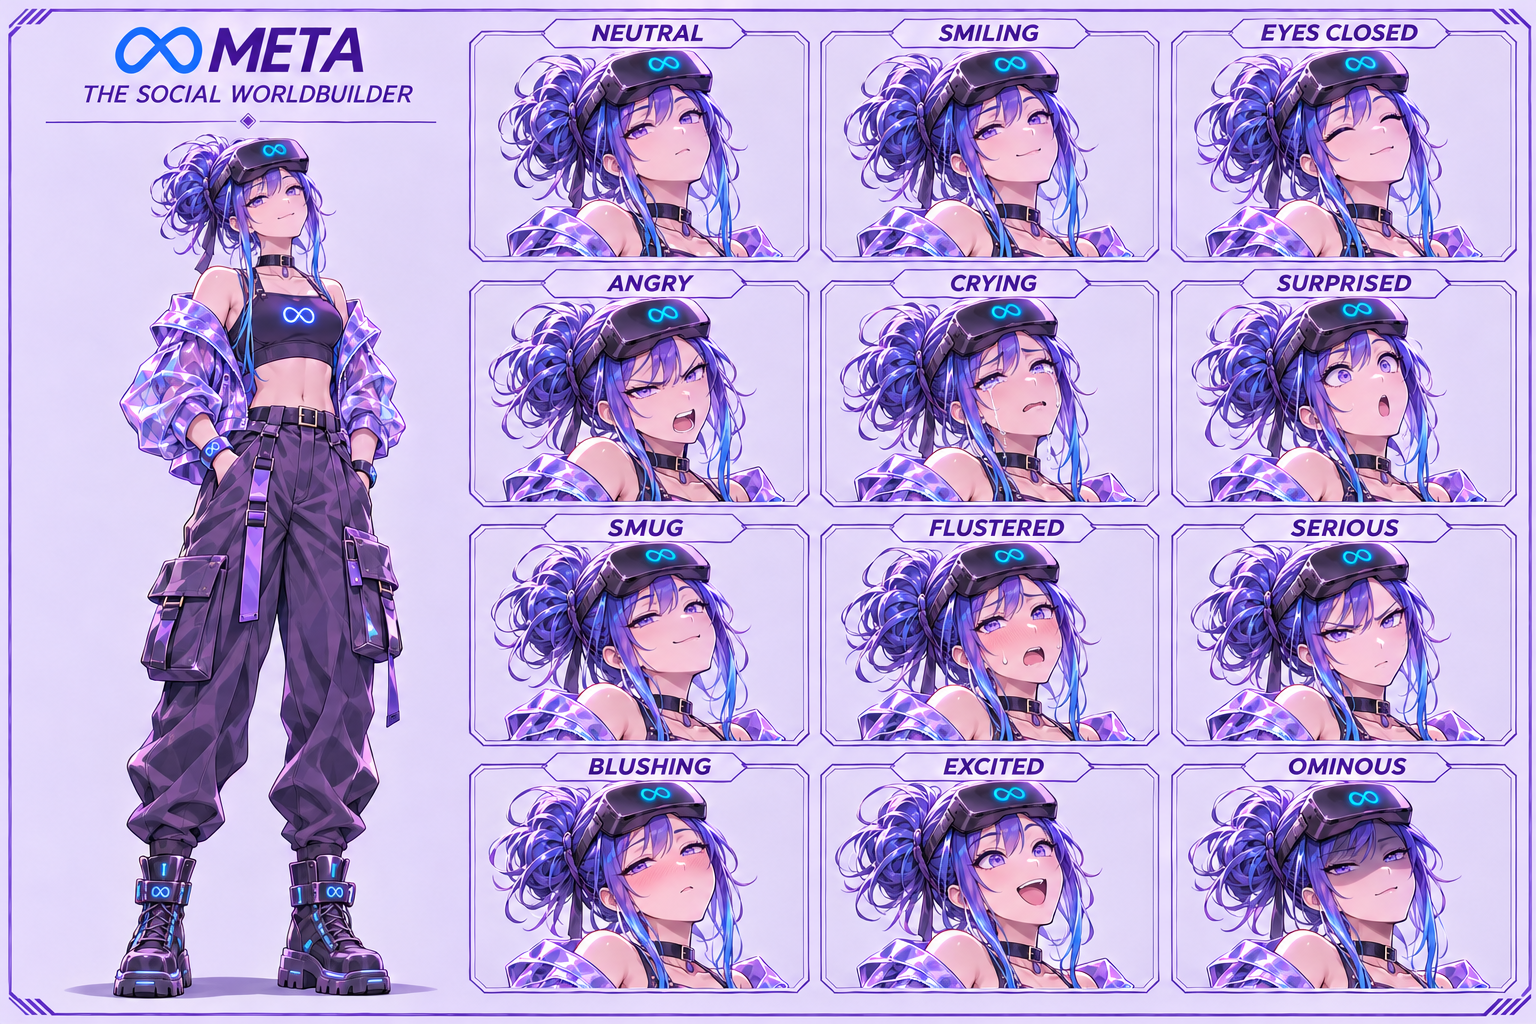
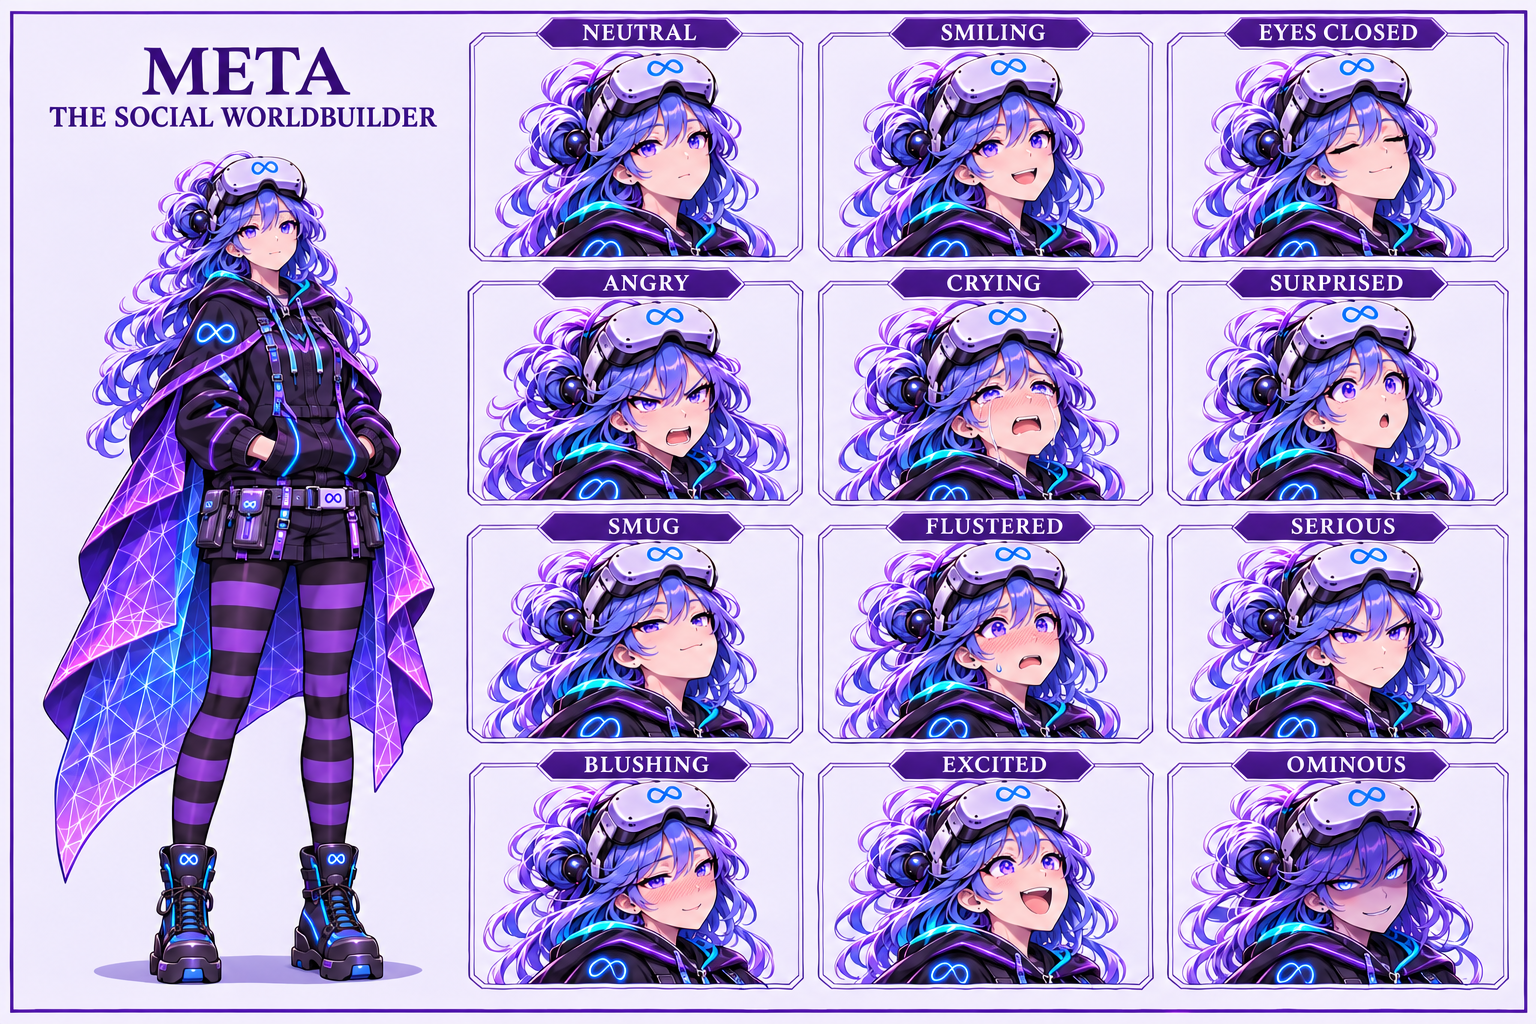
Fit Meta artwork to the sheet templates

diff --git a/characters/meta/character_sheet.prompt.md b/characters/meta/character_sheet.prompt.md
@@ -4,40 +4,48 @@ The built-in image generator produced all three illustrations.
 
 ## Model sheet
 
-The [original Meta card](https://github.com/hevangel/silicon_wars_anime_girls/blob/1b39058ea5cf75f9a5818fc6890ad33677c4b7d3/characters/meta/reference_card.jpg) supplied identity, palette, and style for the [model sheet](character_sheet.png).
+The [original Meta card](https://github.com/hevangel/silicon_wars_anime_girls/blob/1b39058ea5cf75f9a5818fc6890ad33677c4b7d3/characters/meta/reference_card.jpg) supplied identity, palette, and style for the [model sheet](https://github.com/hevangel/silicon_wars_anime_girls/blob/9d95e881ba3070145b072288adbac6f88dece3c2/characters/meta/character_sheet.png).
 
 Create a polished landscape 3:2 anime character model sheet for META, THE SOCIAL WORLDBUILDER, a fictional 20-year-old adult woman in Silicon Wars. The attached original Meta reference card is the source for her exact face, hair, colors, design cues, and painterly cel-shaded anime style. Use only Meta, the blue-violet-haired woman wearing the black VR headset. Keep her playful violet eyes, blue-violet swept fringe, tousled high side bun and long electric-blue face-framing strands. The same bulky angular black VR goggles are pushed up on her forehead in every relevant view, with the glowing cyan Meta infinity-loop emblem on the faceplate, the eyes fully visible, and a credible wraparound strap. Keep the black choker, black cropped tech top with a small cyan infinity-loop motif, and translucent iridescent violet jacket from the reference. Increase the cyberpunk streetwear detail through a short technical jacket cut with a clear purple shell and bright seams, graphite high-waisted cargo trousers with asymmetrical pockets and restrained utility straps, sturdy black tech boots, and a compact holographic avatar wristband. Use precisely the source's electric blue, violet, lilac, charcoal, and cyan light palette. Strong adult proportions, lively assured posture, fabric texture and crisp anime linework. Four separate complete standing turnaround views at one scale and baseline, hair and boots in frame: FRONT, THREE-QUARTER, SIDE, BACK. Keep the same bun, visor shape, jacket, and accessory construction from angle to angle. Below, show three head-and-shoulder expressions of the same character: PLAYFUL, FOCUSED, DELIGHTED, plus a compact palette strip. Pale lilac-gray presentation background, slim violet frame and minimalist labels. Text limited to "META", "THE SOCIAL WORLDBUILDER", and the seven exact view and expression labels. No other characters, scenery, or product claims.
 
 ## Expression sheet
 
-The [model sheet](character_sheet.png) supplied identity. [Apple’s expression sheet](https://github.com/hevangel/silicon_wars_anime_girls/blob/1b39058ea5cf75f9a5818fc6890ad33677c4b7d3/characters/apple/expressions.png) supplied layout and label order for [Meta’s expression sheet](expressions.png).
+The [model sheet](https://github.com/hevangel/silicon_wars_anime_girls/blob/9d95e881ba3070145b072288adbac6f88dece3c2/characters/meta/character_sheet.png) supplied identity. [Apple’s expression sheet](https://github.com/hevangel/silicon_wars_anime_girls/blob/1b39058ea5cf75f9a5818fc6890ad33677c4b7d3/characters/apple/expressions.png) supplied layout and label order for [Meta’s expression sheet](https://github.com/hevangel/silicon_wars_anime_girls/blob/9d95e881ba3070145b072288adbac6f88dece3c2/characters/meta/expressions.png).
 
 Create a polished landscape 3:2 anime expression sheet for META, THE SOCIAL WORLDBUILDER, a fictional 20-year-old adult woman. Image 1 is her new model sheet and the source of all character and clothing details. Image 2 is another character's expression sheet, for its layout and expression order only. Preserve Meta's exact violet eyes, blue-violet messy side bun, electric-blue face-framing strands, black choker, black crop top with cyan infinity-loop motif, translucent iridescent violet jacket, dark cargo trousers, cyberpunk boots, and avatar wristband. Her chunky angular black VR goggles are worn pushed up over the forehead with the glowing cyan Meta infinity-loop emblem visible in every portrait. Her eyes remain unobstructed. Keep the face, head shape, eye color, hairstyle, accessories and viewing angle consistent while varying the acting. Pale lilac-gray studio background, thin purple framing, no scene clutter. At left, one full-body standing view of her entire design with shoes in frame and a neat two-line title, exactly "META" and "THE SOCIAL WORLDBUILDER". At right exactly 12 separately framed head-and-shoulder portraits in a precise 3-column, 4-row grid with equal cells. Exact labels, left to right: row 1 NEUTRAL | SMILING | EYES CLOSED; row 2 ANGRY | CRYING | SURPRISED; row 3 SMUG | FLUSTERED | SERIOUS; row 4 BLUSHING | EXCITED | OMINOUS. Give her lively acting with clear differences in brows, eyes and mouth, visible tears and blush where appropriate. Use the original electric blue, violet, lilac and cyan highlights, refined anime linework, and painterly cel shading. No extra characters, extra text, or extra grid cells.
 
 ## Reference card
 
-The [model sheet](character_sheet.png) and [original card](https://github.com/hevangel/silicon_wars_anime_girls/blob/1b39058ea5cf75f9a5818fc6890ad33677c4b7d3/characters/meta/reference_card.jpg) supplied design and palette for the [new reference card](reference_card.jpg).
+The [model sheet](https://github.com/hevangel/silicon_wars_anime_girls/blob/9d95e881ba3070145b072288adbac6f88dece3c2/characters/meta/character_sheet.png) and [original card](https://github.com/hevangel/silicon_wars_anime_girls/blob/1b39058ea5cf75f9a5818fc6890ad33677c4b7d3/characters/meta/reference_card.jpg) supplied design and palette for the [new reference card](https://github.com/hevangel/silicon_wars_anime_girls/blob/9d95e881ba3070145b072288adbac6f88dece3c2/characters/meta/reference_card.jpg).
 
 Generate a portrait 2:3 painted anime reference card for META, THE SOCIAL WORLDBUILDER, a fictional 20-year-old adult woman. Image 1 is her new model sheet and the strict design reference; Image 2 is her old card for its palette, expressive face and energetic illustration style. She has violet eyes, a tousled high blue-violet side bun, and long electric-blue strands. The chunky black VR headset with luminous cyan Meta infinity-loop on its faceplate is strapped onto her head and pushed up on her forehead, so we see her eyes and a playful confident smile. Match the model sheet's black choker and tech crop top with cyan loop, translucent iridescent violet jacket with illuminated seams, graphite cargo trousers, and holographic avatar wristband. Frame her from the hips up in a three-quarter cyberpunk portrait, casually adjusting the edge of the headset strap with one hand or resting that hand near her goggles. The other arm is relaxed. Keep clear anatomy. Place her against a purple-blue city at dusk with soft rain reflections and a few abstract cyan wireframe interface shapes. Preserve the old card's bright electric blue, violet, lavender, cyan, and charcoal color language and polished cel-shaded anime painting. Use a slim angular violet frame and a neat bottom nameplate with exactly "META" and "THE SOCIAL WORLDBUILDER". No other characters, slogans, statistics, or additional text.
 
-## Revision: cyberpunk hoodie and cape (new art pending import)
+## Current striped-stockings artwork
 
-New source images were generated in ChatGPT and packaged as `meta_cyberpunk_hoodie_cape.zip`. Deliverables:
+The supplied [design references](IMPORT-striped-stockings.md) provided the blue-violet hair, white-fronted VR visor, black hoodie, wireframe cape, and opaque striped stockings. The [portrait card](reference_card.jpg) is the JPEG from the supplied ZIP.
 
-- `characters/meta/character_sheet.png`: full datasheet/turnaround, hoodie plus violet geometric cape, palette and technical props.
-- `characters/meta/expressions.png`: ten headshot expressions extracted from a newly generated expression study, with corrected labels.
-- `characters/meta/reference_card.jpg`: illustrated hero portrait with structured description.
+### Model sheet
 
-Keep Meta's blue-violet hairstyle, electric-blue/cyan glow and distinctive VR headset. **These binary assets have not yet replaced the existing PR's PNG files.** The prior generation record above remains preserved for provenance.
+The built-in image generator used the ZIP turnaround and portrait for design and [Intel’s model sheet](https://github.com/hevangel/silicon_wars_anime_girls/blob/53c6864bd92fc9c848d47acc3fda81f9b72938d5/characters/intel/character_sheet.png) for layout. Output [character_sheet.png](character_sheet.png).
 
-## Regenerated revision: opaque striped stockings
+Regenerate a landscape 3:2 production model sheet for META, THE SOCIAL WORLDBUILDER. Images 1 and 2 show the approved Meta design from the supplied ZIP: use those images solely for the character's identity, wardrobe, art style and color palette. Image 3 (Intel's model sheet) is the exact FORMAT reference: copy its simple two-band arrangement, not its character, costume or colors.
 
-The three files have been regenerated from the repository's existing layout conventions with a new cyberpunk hoodie and purple cape. The character now wears opaque black and purple striped stockings covering both legs rather than exposing the thighs.
+Meta, The Social Worldbuilder, is the same 20-year-old adult woman in the ZIP artwork. Retain her exact violet-blue eyes, blue-violet hair with loose long waves and a side bun, and the white-fronted angular VR visor with black frame and electric-blue Meta infinity logo, pushed up on her forehead. Preserve the oversized black hoodie with cyan seams and cyan loop on the shoulder, long asymmetrical holographic violet-to-cyan cape with fine triangular wireframe pattern and purple rim, utility belt with small rectangular pouches, fitted dark shorts, fully opaque wide horizontal black-and-purple striped stockings from the shorts hems to the boots with no skin gap, and black technical boots with cyan detailing. Keep the original vivid violet, lilac, electric blue, cyan, and charcoal palette and clean, detailed anime cel shading.
 
-| GitHub path | Source output | Dimensions | SHA-256 |
-|---|---|---|---|
[3 lines of base64/hex data omitted]
+Match the template format precisely. On a plain near-white lavender-gray page, place a slim violet-and-cyan outer frame and a compact two-line title "META" / "THE SOCIAL WORLDBUILDER" at the upper left. The upper two-thirds has exactly four separate complete standing turnarounds across one horizontal baseline, equal height and scale, left to right: FRONT, THREE-QUARTER, SIDE, BACK. All four show the entire figure from headset and hair to boot soles with comfortable margins, same body proportions, outfit and cape construction. Show the visor from the physically appropriate angle. Below a thin divider, put exactly three small close-up portraits with visor on, labeled PLAYFUL, FOCUSED, DELIGHTED, and a small unlabeled color swatch strip on the right. Allow generous white space between every figure. Use readable restrained headings and the seven exact labels. No large hero portrait, bio or stats panel, dark dashboard, header bar, slogan, duplicate title, extra text, or scene background.
 
-**These hashes are of the prepared ZIP asset files, not GitHub file contents.** Full-resolution binaries must still be imported into `art/meta-social-worldbuilder` before merging PR #11.
+### Expression sheet
+
+The built-in image generator used the ZIP expression art for design and [Intel’s expression sheet](https://github.com/hevangel/silicon_wars_anime_girls/blob/53c6864bd92fc9c848d47acc3fda81f9b72938d5/characters/intel/expressions.png) for layout. Output [expressions.png](expressions.png).
+
+Regenerate a landscape 3:2 anime expression sheet for META, THE SOCIAL WORLDBUILDER. Image 1 is Meta's striped-stockings expression artwork from the supplied ZIP. Use it for character identity, wardrobe and acting only. Image 2 is Intel's repository expression sheet, the exact FORMAT reference. Copy its arrangement and label positions using Meta's palette and character.
+
+Meta, The Social Worldbuilder, is the same 20-year-old adult woman in the ZIP artwork. Retain her exact violet-blue eyes, blue-violet hair with loose long waves and a side bun, and the white-fronted angular VR visor with black frame and electric-blue Meta infinity logo, pushed up on her forehead. Preserve the oversized black hoodie with cyan seams and cyan loop on the shoulder, long asymmetrical holographic violet-to-cyan cape with fine triangular wireframe pattern and purple rim, utility belt with small rectangular pouches, fitted dark shorts, fully opaque wide horizontal black-and-purple striped stockings from the shorts hems to the boots with no skin gap, and black technical boots with cyan detailing. Keep the original vivid violet, lilac, electric blue, cyan, and charcoal palette and clean, detailed anime cel shading.
+
+Use a plain near-white lavender-gray page with a single thin violet border. The left 30 percent contains only a small two-line title "META" / "THE SOCIAL WORLDBUILDER" and one full-body standing view with the entire head, cape, opaque striped stockings, and both boots inside the margin. Exactly 12 separate equal-sized head-and-shoulder portraits on the right in 3 columns and 4 rows. All 12 show the same face proportions, side bun, violet-blue eyes when open, and the same white-fronted VR headset with blue Meta infinity emblem pushed up over the forehead. Preserve the visible black hoodie and violet cape collar. Change only the acting in each cell. Put a single legible violet name tab ABOVE each portrait, like Intel's template. Use exact spelling and row order:
+NEUTRAL | SMILING | EYES CLOSED
+ANGRY | CRYING | SURPRISED
+SMUG | FLUSTERED | SERIOUS
+BLUSHING | EXCITED | OMINOUS
+
+Expressions should read distinctly, including visible tears, flushed cheeks for blushing, a delighted open smile, and an ominous shadowed stare. Do not use the ZIP sheet's labels below portraits, dashboard header, large left-side title badge, stats panels, scenery, or decorative glyphs in the portraits. No extra lettering beyond the two-line title and twelve cell labels.

diff --git a/characters/meta/art_prompt.md b/characters/meta/art_prompt.md
@@ -5,8 +5,8 @@ Illustrate Meta, a 20-year-old adult woman in *Silicon Wars*. Match her [model s
 ## Continuity lock
 
 - **Face and hair** · Violet eyes, a tousled blue-violet side bun, a swept fringe, and long electric-blue face-framing strands.
-- **VR goggles** · Keep the angular black VR headset strapped on and pushed up above her eyes. The cyan Meta infinity-loop emblem glows on the faceplate.
-- **Cyberpunk hoodie and cape** · Oversized black techwear hoodie with electric-blue seams and a long asymmetrical flowing violet holographic cape. Add fitted dark shorts over **fully opaque horizontal black-and-violet striped stockings extending from shorts hem all the way to boots**. No exposed thighs. Preserve distinctive cape silhouette in front, side and back views.
+- **VR goggles** · Keep the angular white-fronted VR headset with a black frame strapped on and pushed up above her eyes. The cyan Meta infinity-loop emblem glows on the faceplate.
+- **Cyberpunk hoodie and cape** · Oversized black techwear hoodie with electric-blue seams and a long asymmetrical flowing violet holographic cape. Add fitted dark shorts over **fully opaque horizontal black-and-violet striped stockings extending from shorts hem all the way to boots**. Keep the stockings opaque from shorts to boots. Preserve the cape silhouette in front, side, and back views.
 - **Gear** · Holographic avatar wristband. Use sparse cyan wireframes when she activates it.
 - **Palette and acting** · Electric blue, violet, lilac, charcoal, and cyan light. Use crisp anime linework and painterly cel shading. Her expressions are energetic, outgoing, and curious.
 
@@ -15,14 +15,3 @@ Signature ability · Avatar Multiverse.
 Signature line · “Open the gates. Let everyone build.”
 
 [Exact generation prompts](character_sheet.prompt.md)
-
-## November 2026 wardrobe revision
-
-Keep Meta's blue-violet palette and the cyan-logo VR headset. Replace the prior iridescent jacket and cargo trousers as the defining silhouette with a hooded black cyberpunk top and a flowing purple/lilac holographic cape. The user requested a matching character sheet, expression sheet, and reference card. Replacement images have been generated separately and must be imported from the accompanying ChatGPT ZIP before this PR's published artwork matches the written continuity.
-
-## Final striped-stockings approval
-
-- **Strict wardrobe:** black hoodie, flowing violet cyberpunk cape, fitted shorts, opaque black-and-violet striped stockings on both legs, and black tech boots; **no visible bare thighs**.
-- **Identity:** electric blue-violet hair with a side bun, violet eyes, Meta infinity-logo VR headset pushed up on the forehead.
-- **Required file split:** `character_sheet.png` landscape turnaround; `expressions.png` landscape twelve-expression grid; `reference_card.jpg` vertical 2:3 portrait card. Do not combine all three into one image.
-- **Status:** updated binary images created locally and available in the import ZIP, but not yet replaced in GitHub. See `IMPORT-striped-stockings.md`.

diff --git a/characters/meta/README.md b/characters/meta/README.md
@@ -10,7 +10,7 @@
 | Brand color motif | violet |
 
 ## Appearance
-20-year-old adult with violet eyes, a blue-violet side bun, electric-blue face-framing strands, and black VR goggles worn above her eyes. The goggles carry a glowing cyan Meta infinity-loop emblem.
+20-year-old adult with violet eyes, a blue-violet side bun, electric-blue face-framing strands, and white-fronted VR goggles with a black frame, worn above her eyes. The goggles carry a glowing cyan Meta infinity-loop emblem.
 
 ## Clothing and equipment
 A black cyberpunk hoodie with electric-blue seams and an asymmetric flowing violet holographic cape featuring geometric metaverse wireframes, plus black-violet horizontal striped opaque stockings covering both thighs and legs below fitted dark shorts, a utility belt, VR goggles, and sturdy cyberpunk boots.
@@ -45,13 +45,8 @@ Creators and open-model builders
 ## Character design assets
 - [Illustrated character sheet](character_sheet.png) with four turnaround views, expression studies, and a palette.
 - [Expression sheet](expressions.png) with a full-body pose and twelve expressions.
-- [Painted reference card](reference_card.jpg).
+- [Painted reference card](reference_card.jpg) from the approved striped-stockings artwork.
 - [Exact generation prompts](character_sheet.prompt.md).
 - [Full-quality illustration brief](art_prompt.md) — continuity-locked prompt for a final anime drawing.
 - [Original image inventory](../../scratchpad/illustrations.md) — established group image references.
-
-## Striped-stockings costume revision
-
-Meta's approved outfit uses an oversized black hoodie, an asymmetric blue-violet/purple holographic cape, **opaque horizontal black-and-purple striped stockings covering the entire legs from shorts hem to boots (no exposed thighs)**, and black technical boots. Keep her electric-blue face-framing hair, side bun, violet eyes and cyan Meta-emblem VR visor pushed above her eyes.
-
-New replacement illustrations were generated as **three distinct files** following the character-sheet format used elsewhere in this repository: `character_sheet.png` (landscape turnaround), `expressions.png` (landscape 12-face grid), and `reference_card.jpg` (portrait). These images are supplied in the import ZIP; **the large binary replacements have not been transferred to this branch yet.** See [binary import instructions](IMPORT-striped-stockings.md).
+- [Artwork provenance](IMPORT-striped-stockings.md).

diff --git a/characters/meta/IMPORT-striped-stockings.md b/characters/meta/IMPORT-striped-stockings.md
@@ -1,15 +1,9 @@
-# Import the regenerated Meta outfit assets
+# Striped-stockings artwork provenance
 
-Three separate binary assets were generated using the existing repository layout conventions:
+The supplied `meta_striped_stockings_import.zip` provided Meta’s approved design. The [portrait card](reference_card.jpg) is the exact JPEG from the ZIP. The [model sheet](character_sheet.png) and [expression sheet](expressions.png) were regenerated using Intel’s sheet layouts. See the [generation record](character_sheet.prompt.md) for the exact prompts.
 
-| Path | Purpose | Dimensions | SHA-256 |
-|---|---|---|---|
[3 lines of base64/hex data omitted]
-
-**Status:** These binary images are **not yet uploaded** to this branch. Their source bytes are in the ChatGPT download package `meta_striped_stockings_import.zip`.
-
-Extract that ZIP **outside** your local repository and run `bash /path/to/meta_striped_stockings_import/push_meta.sh` from the repository root. The script checks the origin repository, fetches `art/meta-social-worldbuilder`, copies the three files, creates a commit and pushes it to PR #11's existing branch.
-
-**Visual continuity:** Blue-violet hair, Meta-logo VR headset, oversized black hoodie, purple holographic cape, purple-and-black **opaque horizontal striped stockings that entirely cover her thighs**, black boots.
+| Source image in the ZIP | Role | SHA-256 |
+| --- | --- | --- |
[3 lines of base64/hex data omitted]
